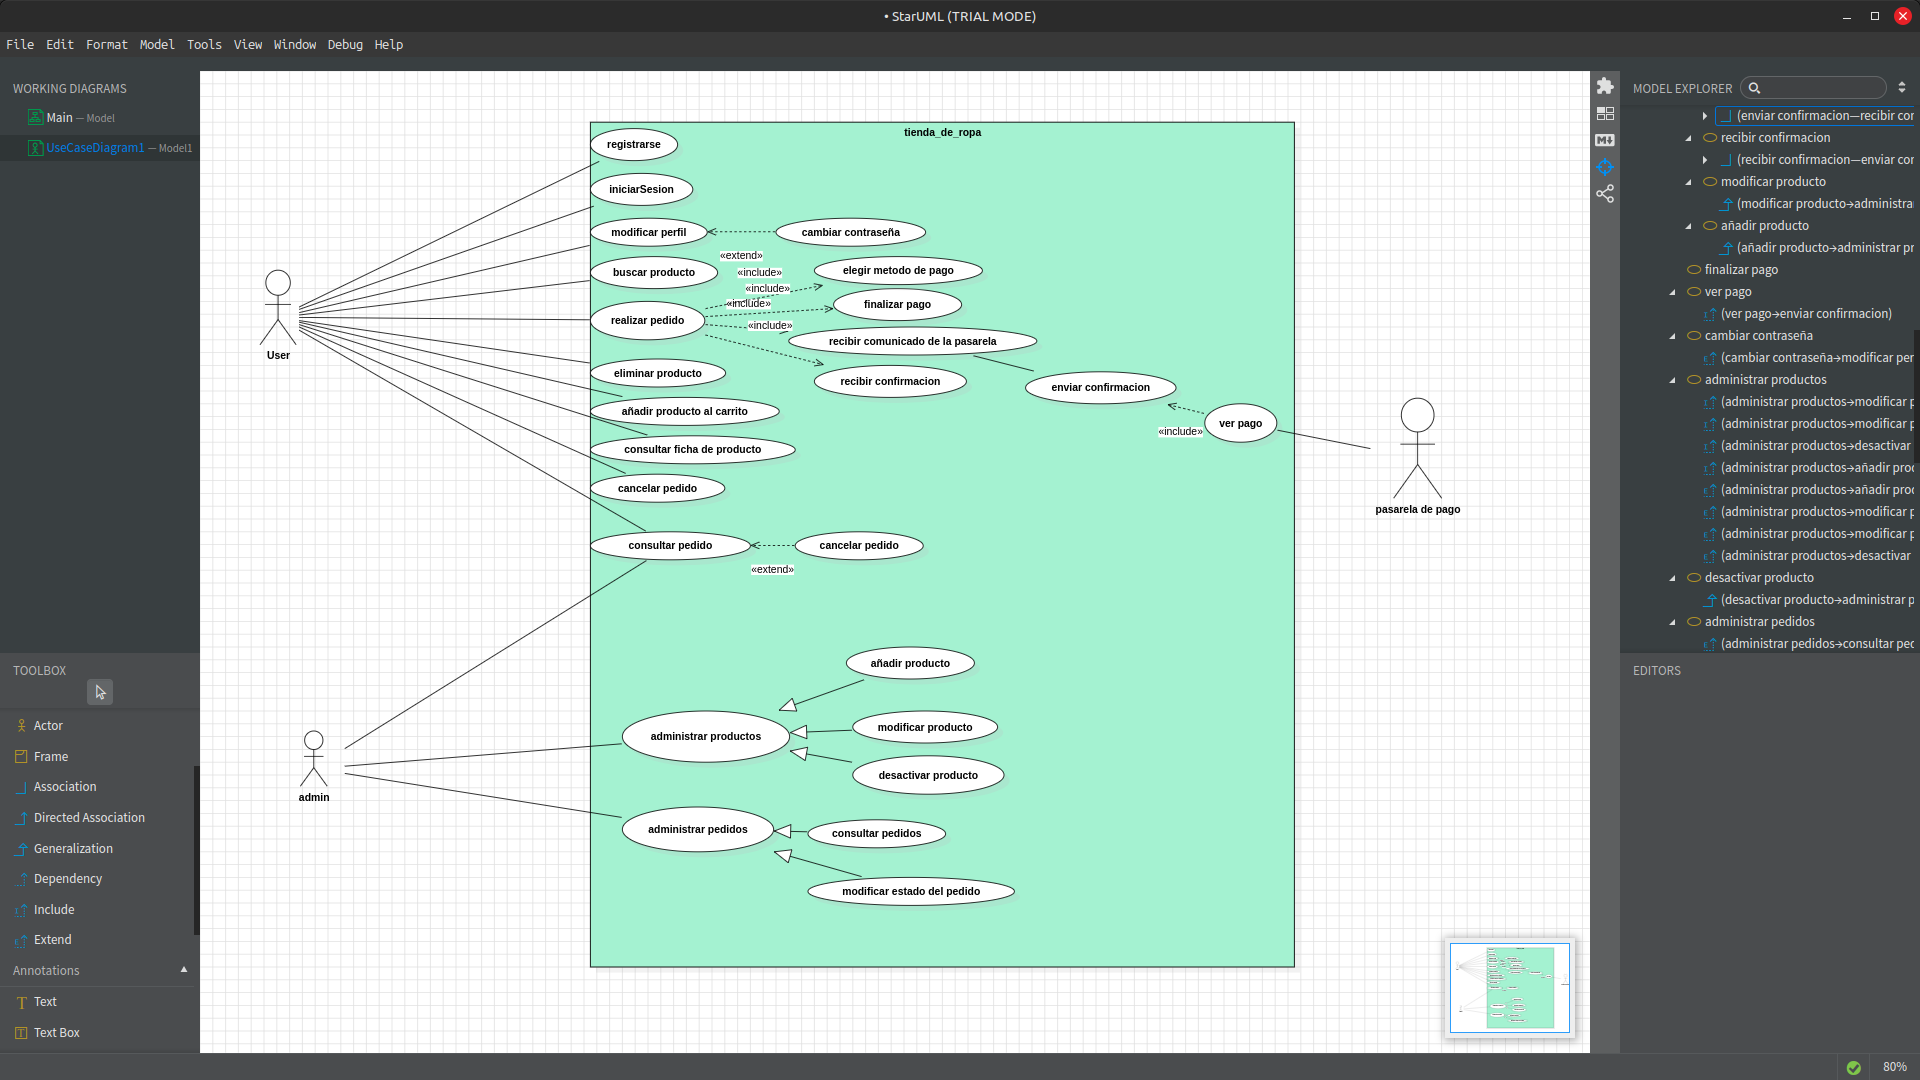
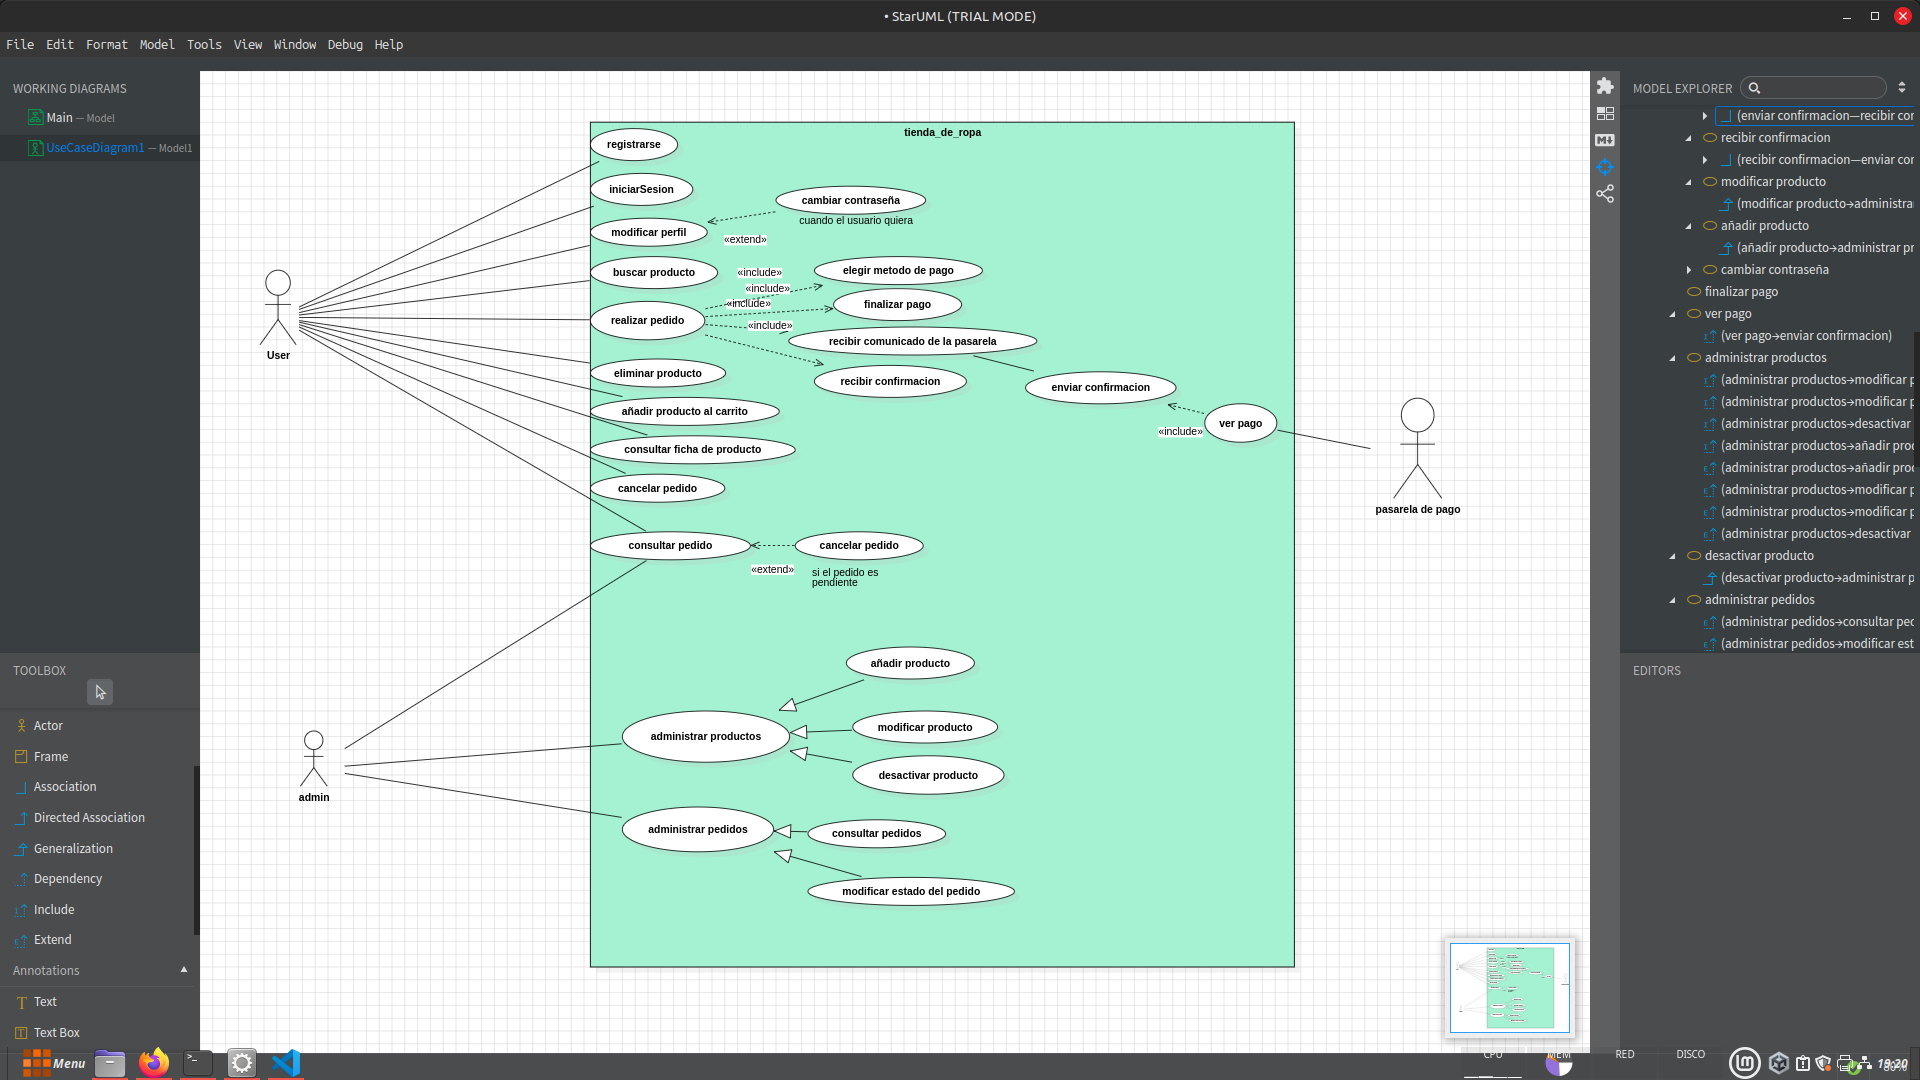
Se subio la tarea

diff --git a/ut4/a2/README.md b/ut4/a2/README.md
@@ -1,0 +1,95 @@
+# UT4-A2 Sistema de Gestión de un Centro Veterinario
+
+El Centro Veterinario **“VetCare+”** desea modelar su sistema interno de gestión de pacientes, visitas, tratamientos y personal sanitario. El objetivo es construir un **diagrama de clases UML**  basado en el dominio descrito a continuación. 
+
+> 🚨 El modelo final debe contener exclusivamente aquello que aparece escrito y debe respetar todas las relaciones, cardinalidades y atributos indicados.
+
+En el centro se registran animales atendidos clínicamente. Cada **animal** dispone de los atributos:
+- `idAnimal` (int)
+- `nombre` (string)
+- `especie` (string)
+- `fechaNacimiento` (fecha)
+
+Cada Animal pertenece exactamente a un **propietario**, . El **propietario** debe incluir los atributos siguientes:
+
+- `idPropietario` (int)
+- `nombreCompleto` (string)
+- `telefono` (string)
+
+Un **propietario** siempre tiene al menos un **animal**, pudiendo tener varios.
+
+El centro cuenta con personal formado por **veterinarios**, cada uno con:
+
+- `idVeterinario` (int)
+- `nombreCompleto` (string)
+- `especialidad` (string)
+- `numeroCol` (string)
+
+Los **veterinarios** registran **consultas**, que incluyen:
+
+- `idConsulta` (int)
+- `fechaHora` (fecha-hora)
+- `motivo` (string)
+
+Cada **consulta** está asociada a un único **animal** y es realizada por un único **veterinario**. Un **animal** puede tener muchas **consultas** a lo largo del tiempo, al igual que un **veterinario**.
+
+Tras algunas Consultas, el Veterinario prescribe **tratamientos**, cada uno con:
+
+- `idTratamiento` (int)
+- `descripcion` (string)
+- `duracionDias` (int)
+
+Cada **tratamiento** pertenece a una única **consulta**, y una **consulta** puede tener ninguno, uno o múltiples **tratamientos**.
+
+Algunos **tratamientos** requieren **medicaciones**, que incluyen:
+
+- `idMedicacion` (int)
+- `nombre` (string)
+- `dosis` (string)
+
+Cada **medicación** está asociada exclusivamente a un único **tratamiento**.  Un **tratamiento** puede tener cero, una o varias **medicaciones**.
+
+> El diagrama final deberá incluir únicamente las clases mencionadas (Propietario, Animal, Veterinario, Consulta, Tratamiento, Medicacion), con todos los atributos indicados y las relaciones y cardinalidades exactas.
+
+
+Para cada una de las clases se deben implementar los siguientes **métodos**:
+
+- #### Propietario
+
+    - `agregarAnimal()`
+    - `listarAnimales()`
+    - `obtenerTelefono()`
+
+- #### Animal
+
+    - `calcularEdad()`
+    - `registrarConsulta()`
+    - `listarConsultas()`
+
+- #### Veterinario
+
+    - `registrarConsulta()`
+    - `listarConsultasRealizadas()`
+
+- #### Consulta
+
+    - `agregarTratamiento()`
+    - `listarTratamientos()`
+
+- #### Tratamiento
+
+    - `agregarMedicacion()`
+    - `listarMedicaciones()`
+    - `obtenerDuracion()`
+
+- #### Medicacion
+
+    - `obtenerDosis()`
+    - `modificarDosis()`
+
+A continuación se muestra el **diagrama de clases** realiazado:
+
+![Diagrama de clases]((/img/001.png))
+
+
+